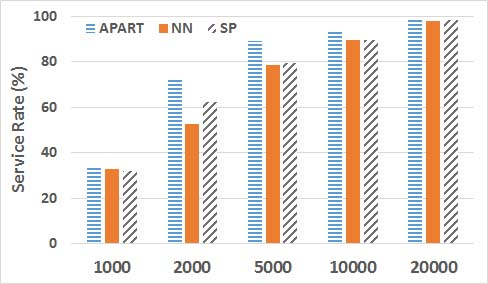
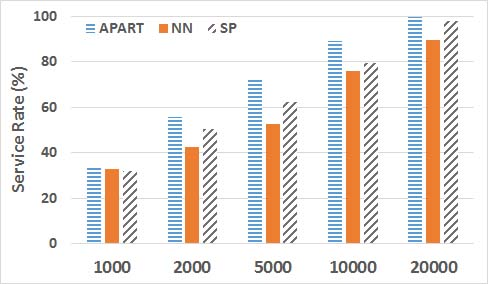
Initial Draft.

diff --git a/Manuscript/GIS16/sec_experiments.tex b/Manuscript/GIS16/sec_experiments.tex
@@ -8,18 +8,41 @@ Dataset and experiment desig.
 \subsubsection{Algorithms}
 We compared the results of our framework (\textbf{APART}) with two other approaches; \textbf{SP} (i.e., Shortest Path) and \textbf{NN} (i.e., Nearest Neighbor).
 
-Our implementation of SP is based on the algorithms in \cite{Huang14}. The only advantage of \cite{Huang14} over \cite{Ma13} is the the former considers reordering of the schedule while the latter does not. Although it is shown the performance increase of reordering requests is minimal, since we consider request reordering in APART, we decided to base the SP implementation on algorithms in \cite{Huang14} to make the comparison as fair as possible.
+Our implementation of SP is based on the algorithms in \cite{Huang14}. The only advantage of \cite{Huang14} over \cite{Ma13} is the the former considers reordering of the schedule while the latter does not. Although it is shown the performance increase of reordering requests is minimal, since we consider request reordering in APART, we decided to base the SP implementation on algorithms in \cite{Huang14} to make the comparison as fair as possible. We incorporate the notion of monetary incentives similar to \cite{Ma15} such that we only assign the request to a driver if it satisfies the monetary constraints of all riders, otherwise we check the next driver with least increase in traveled distance.
 
 Also, the NN algorithm is implemented based on the current approach adopted by major ridesharing platforms such as Uber. The NN approach, finds the first nearest driver to the pick-up location of a new request. If the driver is able to fit the new request in its schedule without violating any constraints, he accepts the request. Otherwise the request is rejected and the algorithm tries to assign the request to the next nearest driver. This continues until a driver accepts the request of every driver rejects it in which case the request is dropped.
 
 As a result, we are comparing the performance of APART with state-of-the-art approaches from both academia (SP) and industry (NN).
 
-In the first set of experiments, we use the pricing model explained in \cref{subsec:pricing} and compare the three approaches. In ...... we utilize the pricing model introduced in \cite{Ma15} for both APART and SP. In the pricing model of \cite{Ma15}, there is no concept of \textit{revenue} similar to what we introduces in \cref{subsec:pricing}. Therefore, in order to compare the generated revenue, we assume each driver has to pay 20\% of what they make as the server's share.
+In the first set of experiments, we use the pricing model explained in \cref{sec:pricing} and compare the three approaches. Later in \cref{subsec:pricingexp} we utilize the pricing model introduced in \cite{Ma15} for both APART and SP. In the pricing model of \cite{Ma15}, there is no concept of \textit{revenue} similar to what we introduced in \cref{sec:pricing}. Therefore, in order to compare the generated revenue, we assume each driver has to pay 20\% of what they make as the server's share.
 
 \subsubsection{Configurations and Measures}
 In our experiments we measure three different metrics by varying different parameters of the system. We measure (1) service rate as the percentage of requests that were completed, (2) the revenue of the system and (3) the response time for matching a request with a driver. Also, \cref{tab:params} shows the different values we used for various parameters to evaluate our framework (default values are shown in \textbf{bold}).
 
 \TODO{mohammad}{Write default values for rider and driver profiles}
+
+\begin{figure*}[]
+    \centering
+    \subfigure[\small{Service Rate}]{
+        \label{fig:default_sr}
+        \includegraphics[width = 0.45\columnwidth]{fig/default_sr.jpg}
+    }
+    \subfigure[\small{Driver Availability}]{
+        \label{fig:availability}
+        \includegraphics[width = 0.45\columnwidth]{fig/availability.jpg}
+    }
+    \subfigure[\small{Revenue}]{
+        \label{fig:default_rev}
+        \includegraphics[width = 0.45\columnwidth]{fig/default_rev.jpg}
+    }
+    \subfigure[\small{Response Time}]{
+        \label{fig:default_rp}
+        \includegraphics[width = 0.45\columnwidth]{fig/default_rp.jpg}
+    }
+    \vspace{-0.15in}
+    \caption{Comparing Algorithms with Default Values}
+    \label{fig:defaults}
+\end{figure*}
 
 \begin{table}
 \begin{center}
@@ -42,10 +65,18 @@ In our experiments we measure three different metrics by varying different param
 \end{table}
 
 \subsection{Algorithm Comparison}
-In this section, we evaluate the performance of the three approaches by varying one of the parameters based on \cref{tab:params} while other parameters have their default values. We show how the algorithms compare to each other with regard to service rate, generated revenue and response time.
+In this section, we compare and analyze the performance of the three approaches using the default parameters in \cref{tab:params}. The we evaluate the effect of different parameters by varying one of the parameters based on \cref{tab:params} while other parameters have their default values. We show how the algorithms compare to each other with regard to service rate, generated revenue and response time.
+
+In \cref{fig:default_sr} we compare the service rate of the three algorithms. As it is shown, APART is able to serve more requests compared to the other two approaches. For all three approaches we use the same set of requests and drivers for each run. Than means all approaches start with the same configuration in the road network. However, each approach assigns riders to drivers differently and hence, after a while the dynamic of the network will be different in each algorithms. For each incoming request, we count the number of eligible workers (\cref{subsec:dispatch}). We say, the driver availability in algorithm $A$ is higher than $B$ with regard to request $r$, if during the simulation, in algorithm $A$ more eligible drivers are available for $r$ compared to algorithm $B$. \cref{fig:availability}, shows the percentage of the requests for which APART had higher(/lower) driver availability compared to the other two approaches. The left two bars in \cref{fig:availability} show that for more than 60\% of the requests, APART has a higher driver availability compared to both NN and SP. This means that APART engages drivers more effectively compared to NN and SP and hence, is able to serve more requests.
+
+Next, we compare the algorithms with regard to how much revenue they generate. \cref{fig:default_rev} shows APART generate almost 20\% more revenue compared to SP and 50\% more than NN. Earlier we mentioned that the driver with minimum increase in his traveled distance is not necessarily the most profitable driver. To verify this theory, when running SP, for each incoming request, after the algorithm chose the driver with least increase in traveled distance, we also checked all eligible drivers to see which one generates the highest profit by serving the new request. We performed a similar check when running NN. According to the results for 23\% of the requests, the driver chosen by SP was different from the most profitable driver. This number for NN was 70\%. As we explained earlier, the implementation of SP and NN is such that the request does not get assigned to a driver that cannot satisfy the monetary constraint. In other words, both approaches make sure by assigning a request to a driver, the platform provider does not end up loosing money. If we removed this check in both approaches, in SP, 5\% of the requests would be assigned to drivers that would end up loosing money. For NN, this number would be 40\%.
+
+The final metric we compared, was the average response time for processing a single request. As we see in \cref{fig:default_rp}, with the default setting, the processing time in SP is almost twice the response time in APART. The reason is that although SP utilizes the Kinetic Tree data structure in \cite{Huang14}, the server has to perform scheduling for eligible drivers sequentially while the auction-based approach in APART, distributes the scheduling to the drivers. Nevertheless, with the default settings, all three approaches process the requests under 3ms which is acceptable for a real-time framework.
+
+Following we vary different parameters in the framework based on \cref{tab:params} and evaluate the effect of each parameter on the same metrics.
 
 \subsubsection{Service Rate}
-In the first set of experiments we compare the service rate of the three approaches. As shown in \cref{fig:sr}, all algorithms generate high service rates when the constraints are loosened or there is high resource availability. However, under tight constraints or limited resources, APART outperform the other two approaches by up to 20\%. To better explain the reason why APART has a higher service rate, we use the notion of \textit{eligible drivers} defined in \cref{subsec:dispatch}. \TODO{mohammad}{add a chart that shows the percentage of requests where in APART there are more eligible drivers}.
+In these set of experiments we compare the service rate of the three approaches. As shown in \cref{fig:sr}, all algorithms generate high service rates when the constraints are loosened or there is high resource availability. However, under tight constraints or limited resources, APART outperform the other two approaches by up to 20\%. Earlier we showed how APART copes with the dynamism in the system better than the other two approaches.
 
 \begin{figure}[h]
     \centering
@@ -96,11 +127,11 @@ As mentioned, the main objective of APART is to maximize the ridesharing platfor
     \label{fig:rev}
 \end{figure}
 
-As it can be seen in \cref{fig:rev} regardless of the values of different parameters, APART generates more revenue than any other approach. When we compare the results in \cref{fig:rev} with the ones in \cref{fig:sr}, even under configurations where all algorithms have the same service rate, APART manages to generate at least 10\% more revenue. The main reason for higher revenue is that APART is designed to make a \textit{Price-aware} assignment, i.e., assign the request to a driver that generates the most profit. Of course, as explained in \cref{sec:pricing}, the pricing models that are used in APART are designed such that the higher profits are not gained by scamming the riders. On the other hand, as it was explained earlier, the SP and NN algorithm were not designed to maximize revenue. An interesting observation in \cref{fig:nd_ref} is that as more drivers are added, the profit decreases even though the service rate increases (\cref{fig:nd_sr}). The NN algorithm gives priority to drivers that are closer to the pick-up location of a request. As long as the driver is able to fit the request in its current schedule without violating the wait time and maximum detour constraints of any request, the request will be assigned to him. This means under certain conditions the sum of discounts other riders will receive can potentially be higher than the final fare of the new request and hence, the system will end up loosing money.
+As it can be seen in \cref{fig:rev} regardless of the values of different parameters, APART generates more revenue than any other approach. When we compare the results in \cref{fig:rev} with the ones in \cref{fig:sr}, even under configurations where all algorithms have the same service rate, APART manages to generate at least 10\% more revenue. The main reason for higher revenue is that APART is designed to make a \textit{Price-aware} assignment, i.e., assign the request to a driver that generates the most profit. Of course, as explained in \cref{sec:pricing}, the pricing models that are used in APART are designed such that the higher profits are not gained by scamming the riders. On the other hand, as it was explained earlier, the SP and NN algorithm were not designed to maximize revenue.
 
 \subsubsection{Response Time}
 
-Similar to \cite{Ma13,Huang14}, APART processes the requests, one request at a time once a request is submitted. In order to evaluate the scalability of our framework, our next set of experiments evaluate the response time of processing a single request. To count for the communication cost of these algorithms, for every message transfer, we add the communication cost as the \textit{message size} divided by a transmission rate of 1Mbit/sec (this is even less than the average speed of a 3G cellular network). \cref{fig:rp} compares the response time of the algorithms under different configurations.
+Similar to \cite{Ma13,Huang14}, APART processes the requests, one request at a time once a request is submitted. In order to evaluate the scalability of our framework, our next set of experiments evaluate the response time of processing a single request. 
 
 \begin{figure}[h]
     \centering
@@ -125,7 +156,54 @@ Similar to \cite{Ma13,Huang14}, APART processes the requests, one request at a t
     \label{fig:rp}
 \end{figure}
 
-In \cref{fig:mwt_rp}, the response time increases as more wait time is allowed. This is expected as more wait time, allows drivers to schedule more requests simultaneously which makes the scheduling more time consuming. However, all approaches manage to keep the response time less than 3ms which is acceptable for a real-time framework. However, in \cref{fig:nd_rp}, when more drivers are added, the scalability of SP suffers as it has to perform scheduling for a larger number of vehicles. On the other hand, due to the distributed nature of APART's auction-based approach, each driver does scheduling for itself and adding drivers does not affect the overall response time of APART as much. In \cref{fig:mp_rd} we notice that although APART's response time does not go beyond 2ms, SP handles the increase in maximum passengers better due to the Kinetic Tree structure implementation \cite{Huang14}. The reason for NN's poor performance in \cref{fig:mp_rp} is that it has to \textit{sequentially} perform a computation heavy scheduling, for possibly multiple drivers.
+In \cref{fig:nd_rp}, when more drivers are added, the scalability of SP suffers as it has to perform scheduling for a larger number of vehicles. On the other hand, due to the distributed nature of APART's auction-based approach, each driver does scheduling for itself and adding drivers does not affect the overall response time of APART as much. In \cref{fig:mp_rd} we notice that although APART's response time does not go beyond 5ms, SP handles the increase in maximum passengers better due to the Kinetic Tree structure implementation \cite{Huang14}. The reason for NN's poor performance in \cref{fig:mp_rp} is that it has to \textit{sequentially} perform a computation heavy scheduling, for possibly multiple drivers. Finally, in \cref{fig:mwt_rp} and \cref{fig:mad_rp} we notice that for loose constraints, the response time of SP increases up to 4 times higher than APART. The main reason is that the Kinetic Tree structure keeps track of all possible orders of requests that are assigned to a driver. As we loosen the constraints, the number of feasible permutations of the requests increases which makes the size of the Kinetic Tree larger and updates become computationally more expensive. This in turn increases the response time. \cref{fig:rp} shows unlike the other two approaches, APART's scalability does not suffer by varying different parameters on the framework.
 
 \subsection{Comparing Pricing Models}
 \label{subsec:pricingexp}
+
+In this section, we evaluate the effect of the pricing model. First we show the importance of designing a fair pricing model. We utilize the three aproaches with the model in \cite{Ma13} and show how some riders may end up suffering by participating in ride-sharing. Subsequently, we perform some experiments on the model in \cite{Ma15} and show that as a result of price-aware assignments, regardless of the model, APART generates more revenue for the platform provider. At the end, we show the flexibility that the notion of profiles provides for the users of APART. 
+
+\cref{fig:fairness} shows the result of utilizing the pricing model in \cite{Ma13}. Based on their pricing model, the driver's income is: $c.d_1 + (1+\alpha).c.d_2$ where $d_1$ is the distance the driver had only one rider on-board, $d_2$ is the total distance the driver had more than one rider on-board and $c$ is some predefined constant. $\alpha$ takes a value between 0 and 1 which determines the increase in the driver's income for serving more than one rider. As we see in \cref{fig:saved}, by participating in ride-sharing, the majority of riders save money (pay less as compared to riding alone). \cref{fig:saved} supports the claim in \cite{Ma13} that on average riders will end up saving money. However, \cref{fig:lost} shows that regardless of what algorithm is used, up to 10\% of riders end up paying more by participating in ride-sharing which is not acceptable. 
+
+\begin{figure}[h!]
+	\centering
+    \subfigure[\small{Rider's that Saved Money}]{
+        \label{fig:saved}
+        \includegraphics[width = 0.45\columnwidth]{fig/saved.jpg}
+    }
+    \subfigure[\small{Rider's that Lost Money}]{
+        \label{fig:lost}
+        \includegraphics[width = 0.45\columnwidth]{fig/lost.jpg}
+    }
+    \vspace{-0.15in}
+    \caption{Fairness of Pricing Models}
+    \label{fig:fairness}
+\end{figure}
+
+In the next set of our experiments, we apply the model in \cite{Ma15} and evaluate the performance of APART and SP. In this model, riders get compensated for any detour incurred in their trip. The amount of compensation is based on the new rider's fare and the length of a rider's detour compared the the detour of other riders on the vehicle. \cref{fig:tkde_sr} shows that APART provides a slightly higher service rate than SP. However, due to assigning the riders to most profitable drivers, APART ends up generating 10\% more revenue.
+
+\begin{figure}[h]
+	\centering
+    \subfigure[\small{Service Rate}]{
+        \label{fig:tkde_sr}
+        \includegraphics[width = 0.45\columnwidth]{fig/tkde_sr.jpg}
+    }
+    \subfigure[\small{Revenue}]{
+        \label{fig:tkde_rev}
+        \includegraphics[width = 0.45\columnwidth]{fig/tkde_rev.jpg}
+    }
+    \vspace{-0.15in}
+    \caption{Effect of Applying an Arbitrary Pricing Model}
+    \label{fig:tkde}
+\end{figure}
+
+In \cref{sec:pricing} we mentioned by setting their profiles, users can configure APART to make assignments the way they find desirable. In the last set of our experiments, we used two different configurations for the riders' profiles. First, we set the riders' profiles to $f_T(\delta d_r) = \frac{1}{(\delta d_r + 1)}$. Such profile is suitable for a rider who wants to minimize his detour and is willing to share a ride only if the detour is short. Since the rider is setting \textbf{Tight} constraints we show this profile by $f_T$. In the second run, we set the profile of the riders to $f_R(\delta d_r) = 1 -  (\frac{\delta d_r}{max \delta})$. This profile is more \textbf{Relaxed} (hence, $f_R$) and it is expected that more riders share a trip. \cref{fig:quality} shows the result of utilizing APART and SP with $f_T$ and $f_R$. Since SP does not make price-aware assignments, the results in both runs were the same. However, as we can see with APART\_T, almost 10\% fewer riders ended up sharing a ride while on average they only observed 6-7\% increase in their trips. On the other hand, with APART\_R, almost every rider ended up sharing a ride and the average increase in their trip was almost 20\%. An interesting observation in \cref{fig:quality} is that with APART\_R, more riders ended up sharing a ride compared to SP while their average detour was still less.
+
+\begin{figure}[h]
+	\centering
+    \includegraphics[width = 0.45\columnwidth]{fig/quality.jpg}
+    \vspace{-0.15in}
+    \caption{Effect of Profiles}
+    \label{fig:quality}
+\end{figure}
+

diff --git a/Manuscript/GIS16/sec_pricing.tex b/Manuscript/GIS16/sec_pricing.tex
@@ -17,10 +17,17 @@ Consequently, every pricing model should define three key concepts: (1) \itqoute
 %\subsection{Rider's Fare}
 Every request $r$ has a default fare based on the shortest distance, $d_r$, from $r.s$ to $r.e$. In other words, every pricing model should have an arbitrary function $FARE: d \rightarrow \$ $ such that $FARE(d)$ is the default fare of a ride. In a ride-sharing system, the actual route between the pick-up and drop-off locations of a ride is not necessary the shortest route between the two points. We show the actual route between the two end points of a ride with $d'_r$ and define the detour of a ride as $\delta d_r = d'_r - d_r$. As explained in \cref{def:req}, each request is associated with a profile. We introduce the concept of a \textit{rider's profile} as a tool for the rider to specify how much discount she expects to receive in return for a certain amount of detour on her trip. A rider's profile can have different formats: linear decay, exponential decay, etc. \cref{fig:rider_profile} shows an example of a rider's profile.
 
-\begin{figure}[!ht]
+\begin{figure}
 	\centering
-	\includegraphics[width = 60mm]{fig/rider.eps}
-	\vspace{-0mm}\caption{Rider profile} \vspace{-2mm} \label{fig:rider_profile}
+    \subfigure[Rider's Profile]{
+        \label{fig:rider_profile}
+        \includegraphics[width=0.45\columnwidth ]{fig/rider.eps}
+    }
+    \subfigure[Driver's Profile]{
+        \label{fig:driver_profile}
+        \includegraphics[width=0.45\columnwidth ]{fig/driver.eps}
+    }
+	\vspace{-0mm}\caption{User Profiles} \vspace{-2mm} \label{fig:profiles}
 \end{figure}\vspace{-0mm}
 
 Subsequently, for a request $r$ with shortest distance $d_r$, detour $\delta d_r$ and a profile $f_r$, the final fare is:
@@ -35,12 +42,6 @@ fare(r) = F(d_r) f_r(\delta d_r)
 %\subsection{Driver's Income}
 Every driver has a unique profile which allows him to specify the cost of his service. Similar to riders, drivers can have different expectations for participating in a ride-sharing platforms. The driver's profile allows each driver to set their expectations with respect to how much they expect to make for participating in the platform. The driver's profile can be any function. In fact, it can take any arbitrary input in addition to the distance. For example, it is possible to define the driver's profile as $g: n, d \rightarrow \$$ where $n$ is the number of passengers being serviced by the driver. Without loss of generality, we assume distance is the only input of the driver's profile. Intuitively, the profile is a monotonically increasing function. For example, the profile in \cref{fig:driver_profile} is one where the driver charges \$1 per mile.
 
-\begin{figure}[!ht]
-	\centering
-	\includegraphics[width = 60mm]{fig/driver.eps}
-	\vspace{-0mm}\caption{Driver profile} \vspace{-2mm} \label{fig:driver_profile}
-\end{figure}\vspace{-0mm}
- 
 At any point in time, each driver has a schedule. A driver will be compensated during the time its schedule is not empty. Therefore, for every driver $v$, the income is:
 
 \begin{equation}
